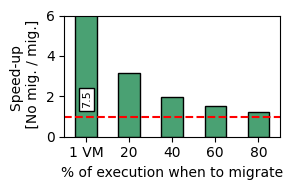
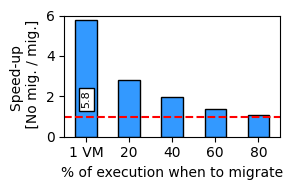
migration

diff --git a/tasks/migration/README.md b/tasks/migration/README.md
@@ -1,4 +1,4 @@
-# Migration Experiment
+# Migration Experiment (Fig.11)
 
 This experiment explores the benefits of migrating the execution of scientific
 applications to benefit from dynamic changes in the compute environment.
@@ -24,7 +24,7 @@ inv migration.wasm.upload
 Third, run the experiments:
 
 ```bash
-inv migration.run -w compute -w network
+inv migration.run -w all-to-all -w very-network
 ```
 
 Lastly, plot the results:
